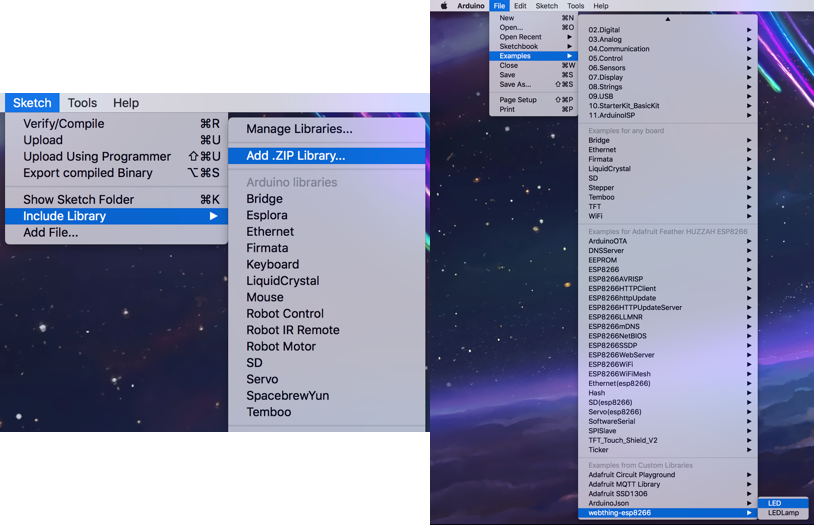
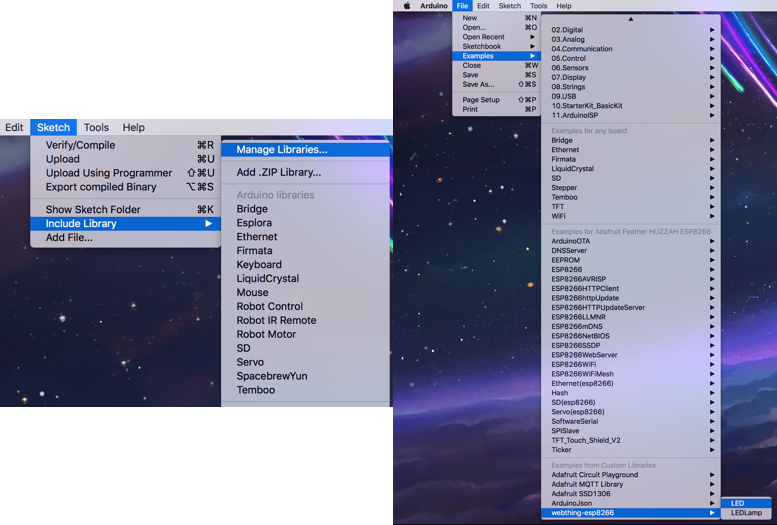
Update documentation

diff --git a/README.md b/README.md
@@ -1,35 +1,56 @@
-webthing-esp8266
-===========
+webthing
+========
 
-A simple server for the ESP8266 that implements Mozilla's proposed Web of
-Things API. The [LED
+A simple server for the ESP8266, the ESP32, or any WiFi101-compatible board
+that implements Mozilla's proposed Web of Things API. The [LED
 example](https://github.com/mozilla-iot/webthing-esp8266/blob/master/examples/LED)
 exposes an onOffSwitch named "Built-in LED" which controls the board's built-in
 LED. The [LED Lamp
 example](https://github.com/mozilla-iot/webthing-esp8266/blob/master/examples/LEDLamp)
 ups the ante by introducing a `level` property to expose a dimmableLight.
 
-To run on an ESP8266, download the Arduino IDE and set it up for ESP8266
-development. Make sure to install the ArduinoJson library if you don't have it
+## Arduino
+
+### ESP8266 or ESP32
+
+To run on either of these boards, download the Arduino IDE and set it up for board-specific
+development. These Adafruit guides explain [how to set up for an
+ESP8266](https://learn.adafruit.com/adafruit-feather-huzzah-esp8266/using-arduino-ide)
+and [how to set up for an
+ESP32](https://learn.adafruit.com/adafruit-huzzah32-esp32-feather/using-with-arduino-ide).
+
+### WiFi101
+
+Install the WiFi101 library from the Arduino library manager.
+
+### Continuing onwards
+
+Make sure to install the ArduinoJson library if you don't have it
 installed already.
 
 ![ArduinoJson install process](https://github.com/mozilla-iot/webthing-esp8266/raw/master/docs/arduinojson.png)
 
-Next, download this a zip of this library and add it using
-your Arduino IDE's Sketch > Include Library > Add ZIP Library option.
+Next, download this library from the same library manager by searching for `webthing`.
 
 ![add zip library and LED example](https://github.com/mozilla-iot/webthing-esp8266/raw/master/docs/add-library-open-example.png)
 
 You should be able to upload the example sketch onto your board and use it as a
 simple Web Thing. This Web Thing can be talked to using the WoT API or added to
-the Mozilla IoT Gateway using the "Add Thing by URL" feature.
+the Mozilla IoT Gateway using the "Add Thing by URL" feature. Note that right
+now WiFi101-based Things must be manually added through typing the full URL to
+the Web Thing, e.g. `http://192.168.0.103/things/led`.
 
 If you want to create a Web Thing from scratch, make sure to include both
 "Thing.h" and "WebThingAdapter.h". You can then add Things and Properties to
 your board using our proposed API.
 
-Example
--------
+## PlatformIO
+
+Add the `webthing-esp8266` library through PlatformIO's package management
+interface. You may also need to manually add the ArduinoJson and other
+libraries to your project.
+
+## Example
 
 ```c++
 #include <Thing.h>
